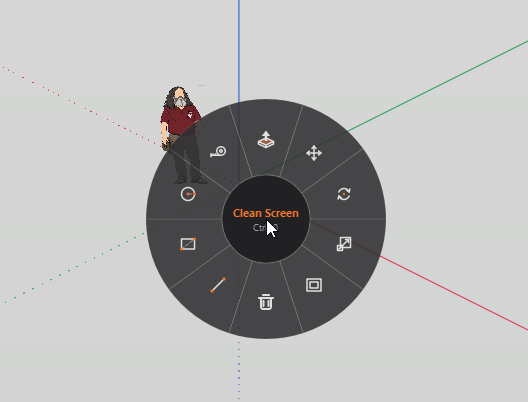
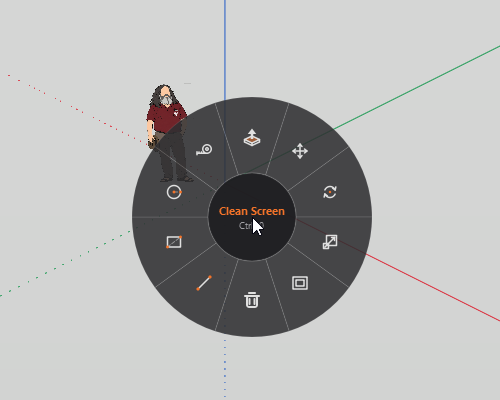
Add settings dialog and dynamic scale support (v0.3)

diff --git a/__init__.py b/__init__.py
@@ -26,6 +26,7 @@ from PySide6.QtGui import (
     QColor,
     QCursor,
     QFont,
+    QGuiApplication,
     QIcon,
     QKeyEvent,
     QKeySequence,
@@ -44,6 +45,8 @@ from PySide6.QtWidgets import (
     QWidget,
 )
 from tools.base import Tool
+
+from .settings import get_menu_scale, open_settings_dialog
 
 log = logging.getLogger("ingetrazo.plugins.v_menu")
 
@@ -123,9 +126,11 @@ PIE_ITEMS = [
     },
 ]
 
-# Visual sizing constants
-INNER_RADIUS = 44.0      # Center dead-zone radius (pixels)
-OUTER_RADIUS = 120.0     # Outer menu radius (pixels)
+# Base sizing constants (at 100% scale)
+BASE_INNER_RADIUS = 44.0      # Center dead-zone radius (pixels)
+BASE_OUTER_RADIUS = 120.0     # Outer menu radius (pixels)
+INNER_RADIUS = BASE_INNER_RADIUS
+OUTER_RADIUS = BASE_OUTER_RADIUS
 TOTAL_SIZE = int(OUTER_RADIUS * 2 + 30)  # Widget canvas size
 
 
@@ -227,12 +232,12 @@ class PieMenuWidget(QWidget):
 
         self._hovered_index = -1
         self._icons: dict[str, QIcon] = {}
+        self.scale_factor = 1.0
+        self.inner_radius = BASE_INNER_RADIUS
+        self.outer_radius = BASE_OUTER_RADIUS
 
         # Cached drawing resources & precomputed sector geometry
-        self._cached_fonts = {
-            "title": QFont("Segoe UI", 8, QFont.Bold),
-            "sub": QFont("Segoe UI", 7),
-        }
+        self._cached_fonts = {}
         self._sector_paths: list[QPainterPath] = []
         self._icon_centers: list[QPointF] = []
         self._icon_rects: list[QRectF] = []
@@ -240,21 +245,34 @@ class PieMenuWidget(QWidget):
         self.setAttribute(Qt.WA_TranslucentBackground, True)
         self.setAttribute(Qt.WA_NoSystemBackground, True)
         self.setMouseTracking(True)
-        self.resize(TOTAL_SIZE, TOTAL_SIZE)
 
-        # Precompute geometry once
-        self._precompute_geometry()
-
-        # Load native IngeTrazo icons
+        # Precompute geometry & load icons
+        self.apply_scale(get_menu_scale())
         self._load_app_icons()
+
+    def apply_scale(self, scale: float):
+        """Update geometry, fonts and canvas size based on scale multiplier."""
+        self.scale_factor = max(0.5, min(2.0, float(scale)))
+        self.inner_radius = BASE_INNER_RADIUS * self.scale_factor
+        self.outer_radius = BASE_OUTER_RADIUS * self.scale_factor
+        total_dim = int(round(self.outer_radius * 2 + 30.0 * self.scale_factor))
+        self.resize(total_dim, total_dim)
+
+        title_pt = max(6, int(round(8.0 * self.scale_factor)))
+        sub_pt = max(5, int(round(7.0 * self.scale_factor)))
+        self._cached_fonts = {
+            "title": QFont("Segoe UI", title_pt, QFont.Bold),
+            "sub": QFont("Segoe UI", sub_pt),
+        }
+        self._precompute_geometry()
 
     def _precompute_geometry(self):
         """Precompute QPainterPath sectors and icon positioning vectors."""
-        cx = TOTAL_SIZE / 2.0
-        cy = TOTAL_SIZE / 2.0
-        rect_out = QRectF(cx - OUTER_RADIUS, cy - OUTER_RADIUS, OUTER_RADIUS * 2, OUTER_RADIUS * 2)
-        rect_in = QRectF(cx - INNER_RADIUS, cy - INNER_RADIUS, INNER_RADIUS * 2, INNER_RADIUS * 2)
-        r_icon = (INNER_RADIUS + OUTER_RADIUS) / 2.0
+        cx = self.width() / 2.0
+        cy = self.height() / 2.0
+        rect_out = QRectF(cx - self.outer_radius, cy - self.outer_radius, self.outer_radius * 2, self.outer_radius * 2)
+        rect_in = QRectF(cx - self.inner_radius, cy - self.inner_radius, self.inner_radius * 2, self.inner_radius * 2)
+        r_icon = (self.inner_radius + self.outer_radius) / 2.0
 
         self._sector_paths.clear()
         self._icon_centers.clear()
@@ -280,7 +298,8 @@ class PieMenuWidget(QWidget):
             center_pt = QPointF(icon_cx, icon_cy)
             self._icon_centers.append(center_pt)
 
-            icon_size = 18 if item["key"] == "delete" else 24.0
+            base_size = 18.0 if item["key"] == "delete" else 24.0
+            icon_size = base_size * self.scale_factor
             rect = QRectF(icon_cx - icon_size / 2.0, icon_cy - icon_size / 2.0, icon_size, icon_size)
             self._icon_rects.append(rect)
 
@@ -300,9 +319,21 @@ class PieMenuWidget(QWidget):
                 self._icons[key] = act.icon()
 
     def show_at_cursor(self):
-        """Display menu centered exactly at current cursor coordinates."""
+        """Display menu centered exactly at current cursor coordinates, bounded to screen."""
+        self.apply_scale(get_menu_scale())
+
         cursor_pos = QCursor.pos()
-        self.move(cursor_pos.x() - self.width() // 2, cursor_pos.y() - self.height() // 2)
+        target_x = cursor_pos.x() - self.width() // 2
+        target_y = cursor_pos.y() - self.height() // 2
+
+        # Keep menu fully within current screen bounds
+        screen = QGuiApplication.screenAt(cursor_pos) or QGuiApplication.primaryScreen()
+        if screen is not None:
+            geo = screen.availableGeometry()
+            target_x = max(geo.left(), min(target_x, geo.right() - self.width()))
+            target_y = max(geo.top(), min(target_y, geo.bottom() - self.height()))
+
+        self.move(target_x, target_y)
         self._hovered_index = -1
         self.show()
         self.raise_()
@@ -320,7 +351,7 @@ class PieMenuWidget(QWidget):
         dy = pos.y() - cy
         dist = math.hypot(dx, dy)
 
-        if dist < INNER_RADIUS or dist > (OUTER_RADIUS + 30.0):
+        if dist < self.inner_radius or dist > (self.outer_radius + 30.0 * self.scale_factor):
             new_hover = -1
         else:
             # 0 degrees is North (Top), angle increases clockwise.
@@ -342,7 +373,7 @@ class PieMenuWidget(QWidget):
             pos = event.position()
             dist = math.hypot(pos.x() - cx, pos.y() - cy)
 
-            if dist < INNER_RADIUS:
+            if dist < self.inner_radius:
                 # Center click toggles Clean Screen (Ctrl+0)
                 self.close()
                 QTimer.singleShot(0, self._trigger_clean_screen)
@@ -508,30 +539,33 @@ class PieMenuWidget(QWidget):
         # 2. Center hub circle (clean, neutral border without highlight)
         painter.setPen(QPen(pal["border"], 1.5))
         painter.setBrush(QBrush(pal["center_bg"]))
-        painter.drawEllipse(center, INNER_RADIUS, INNER_RADIUS)
+        painter.drawEllipse(center, self.inner_radius, self.inner_radius)
 
         # 3. Center hub text
         font_title = self._cached_fonts["title"]
         font_sub = self._cached_fonts["sub"]
+        hw = self.inner_radius - 2.0
+        text_rect_top = QRectF(cx - hw, cy - 14.0 * self.scale_factor, hw * 2, 14.0 * self.scale_factor)
+        text_rect_bottom = QRectF(cx - hw, cy + 1.0 * self.scale_factor, hw * 2, 14.0 * self.scale_factor)
 
         if 0 <= self._hovered_index < self.num_items:
             active_item = self.items[self._hovered_index]
             painter.setFont(font_title)
             painter.setPen(pal["text_hover"])
-            painter.drawText(QRectF(cx - 40, cy - 14, 80, 14), Qt.AlignCenter, active_item["name"])
+            painter.drawText(text_rect_top, Qt.AlignCenter, active_item["name"])
 
             painter.setFont(font_sub)
             painter.setPen(QColor(243, 115, 41))
-            painter.drawText(QRectF(cx - 40, cy + 1, 80, 14), Qt.AlignCenter, f"Key: {active_item['shortcut']}")
+            painter.drawText(text_rect_bottom, Qt.AlignCenter, f"Key: {active_item['shortcut']}")
         else:
             # Default center text — immediate Clean Screen action hint
             painter.setFont(font_title)
             painter.setPen(QColor(243, 115, 41))
-            painter.drawText(QRectF(cx - 42, cy - 14, 84, 14), Qt.AlignCenter, "Clean Screen")
+            painter.drawText(text_rect_top, Qt.AlignCenter, "Clean Screen")
 
             painter.setFont(font_sub)
             painter.setPen(pal["text_dim"])
-            painter.drawText(QRectF(cx - 42, cy + 1, 84, 14), Qt.AlignCenter, "Ctrl+0")
+            painter.drawText(text_rect_bottom, Qt.AlignCenter, "Ctrl+0")
 
 
 # =============================================================================
@@ -580,6 +614,7 @@ class PieMenuKeyFilter(QObject):
 # =============================================================================
 _PIE_MENU_INSTANCE: PieMenuWidget | None = None
 _KEY_FILTER: PieMenuKeyFilter | None = None
+_SETTINGS_ACTION: QAction | None = None
 
 
 def _get_or_create_pie_menu(win=None) -> PieMenuWidget:
@@ -619,8 +654,8 @@ class VPieMenuTool(Tool):
 
 
 def setup(app):
-    """Extension initialization hook. Installs key event filter on viewport only."""
-    global _KEY_FILTER
+    """Extension initialization hook. Installs key event filter and settings menu action."""
+    global _KEY_FILTER, _SETTINGS_ACTION
     win = app.window
 
     _KEY_FILTER = PieMenuKeyFilter(win)
@@ -636,16 +671,30 @@ def setup(app):
         win.installEventFilter(_KEY_FILTER)
         log.warning("V Menu: viewport not found; event filter installed on main window.")
 
+    # Register Settings entry in Extensions menu
+    try:
+        if hasattr(app, "add_menu_action"):
+            _SETTINGS_ACTION = app.add_menu_action(
+                "V Menu Settings...",
+                lambda: open_settings_dialog(win),
+                tip="Configure radial menu scale and size",
+            )
+        elif hasattr(app, "add_menu"):
+            menu = app.add_menu("V Menu")
+            _SETTINGS_ACTION = menu.addAction("Settings...", lambda: open_settings_dialog(win))
+    except Exception:
+        log.exception("V Menu: failed to register Settings menu item")
+
     log.info("V Menu loaded. Press 'V' in the 3D viewport to open the menu.")
 
 
 def teardown(app):
-    """Extension teardown hook. Removes event filter and closes menu.
+    """Extension teardown hook. Removes event filter, settings action and closes menu.
 
     Called by IngeTrazo when the extension is disabled or unloaded.
     Ensures no filter or state lingers until the next restart.
     """
-    global _KEY_FILTER, _PIE_MENU_INSTANCE
+    global _KEY_FILTER, _PIE_MENU_INSTANCE, _SETTINGS_ACTION
     win = app.window
 
     # Close menu immediately if it is open
@@ -655,6 +704,14 @@ def teardown(app):
         except RuntimeError:
             pass  # Widget already destroyed
         _PIE_MENU_INSTANCE = None
+
+    # Remove settings menu action if registered
+    if _SETTINGS_ACTION is not None:
+        try:
+            _SETTINGS_ACTION.deleteLater()
+        except Exception:
+            pass
+        _SETTINGS_ACTION = None
 
     # Remove event filter from all possible targets (no-op if not installed)
     if _KEY_FILTER is not None:

diff --git a/settings.py b/settings.py
@@ -1,0 +1,126 @@
+"""V Menu settings management and UI configuration dialog.
+
+Provides persistent settings storage via Qt's QSettings under the 'v_menu'
+namespace, avoiding external files and matching IngeTrazo's native settings
+pattern.
+"""
+
+from PySide6.QtCore import QSettings, Qt
+from PySide6.QtWidgets import (
+    QDialog,
+    QDialogButtonBox,
+    QHBoxLayout,
+    QLabel,
+    QPushButton,
+    QSlider,
+    QVBoxLayout,
+    QWidget,
+)
+
+SETTING_SCALE_KEY = "v_menu/scale"
+DEFAULT_SCALE_PERCENT = 100
+MIN_SCALE_PERCENT = 50
+MAX_SCALE_PERCENT = 150
+STEP_SCALE_PERCENT = 5
+
+
+def get_menu_scale() -> float:
+    """Return the configured menu scale multiplier as a float (e.g. 1.0 = 100%)."""
+    st = QSettings()
+    val = st.value(SETTING_SCALE_KEY, DEFAULT_SCALE_PERCENT)
+    try:
+        pct = int(val)
+        if MIN_SCALE_PERCENT <= pct <= MAX_SCALE_PERCENT:
+            return pct / 100.0
+    except (ValueError, TypeError):
+        pass
+    return DEFAULT_SCALE_PERCENT / 100.0
+
+
+def set_menu_scale(percent: int):
+    """Store the menu scale percentage into QSettings."""
+    pct = max(MIN_SCALE_PERCENT, min(MAX_SCALE_PERCENT, int(percent)))
+    st = QSettings()
+    st.setValue(SETTING_SCALE_KEY, pct)
+
+
+class VMenuSettingsDialog(QDialog):
+    """Clean settings dialog allowing the user to adjust radial menu scale."""
+
+    def __init__(self, parent: QWidget = None):
+        super().__init__(parent)
+        self.setWindowTitle("V Menu Settings")
+        self.setModal(True)
+        self.setMinimumWidth(320)
+
+        current_pct = int(round(get_menu_scale() * 100.0))
+
+        layout = QVBoxLayout(self)
+        layout.setSpacing(14)
+        layout.setContentsMargins(18, 18, 18, 18)
+
+        # Header / Description
+        info_label = QLabel("Radial Menu Size:", self)
+        font = info_label.font()
+        font.setBold(True)
+        info_label.setFont(font)
+        layout.addWidget(info_label)
+
+        # Slider + Value indicator
+        slider_layout = QHBoxLayout()
+        slider_layout.setSpacing(10)
+
+        self.slider = QSlider(Qt.Horizontal, self)
+        self.slider.setRange(MIN_SCALE_PERCENT, MAX_SCALE_PERCENT)
+        self.slider.setSingleStep(STEP_SCALE_PERCENT)
+        self.slider.setPageStep(10)
+        self.slider.setTickPosition(QSlider.TicksBelow)
+        self.slider.setTickInterval(25)
+        self.slider.setValue(current_pct)
+
+        self.value_label = QLabel(self)
+        self.value_label.setFixedWidth(70)
+        self.value_label.setAlignment(Qt.AlignRight | Qt.AlignVCenter)
+        self._update_value_label(current_pct)
+
+        slider_layout.addWidget(self.slider)
+        slider_layout.addWidget(self.value_label)
+        layout.addLayout(slider_layout)
+
+        # Reset button
+        reset_layout = QHBoxLayout()
+        self.reset_btn = QPushButton("Reset to 100%", self)
+        self.reset_btn.setFixedWidth(110)
+        self.reset_btn.clicked.connect(lambda: self.slider.setValue(DEFAULT_SCALE_PERCENT))
+        reset_layout.addStretch()
+        reset_layout.addWidget(self.reset_btn)
+        layout.addLayout(reset_layout)
+
+        # Dialog standard buttons (OK / Cancel)
+        self.button_box = QDialogButtonBox(
+            QDialogButtonBox.Ok | QDialogButtonBox.Cancel,
+            Qt.Horizontal,
+            self,
+        )
+        self.button_box.accepted.connect(self._on_accept)
+        self.button_box.rejected.connect(self.reject)
+        layout.addWidget(self.button_box)
+
+        self.slider.valueChanged.connect(self._update_value_label)
+
+    def _update_value_label(self, val: int):
+        if val == DEFAULT_SCALE_PERCENT:
+            self.value_label.setText(f"{val}% (Def)")
+        else:
+            self.value_label.setText(f"{val}%")
+
+    def _on_accept(self):
+        set_menu_scale(self.slider.value())
+        self.accept()
+
+
+def open_settings_dialog(parent: QWidget = None):
+    """Open modal settings dialog."""
+    dlg = VMenuSettingsDialog(parent)
+    return dlg.exec()
+
